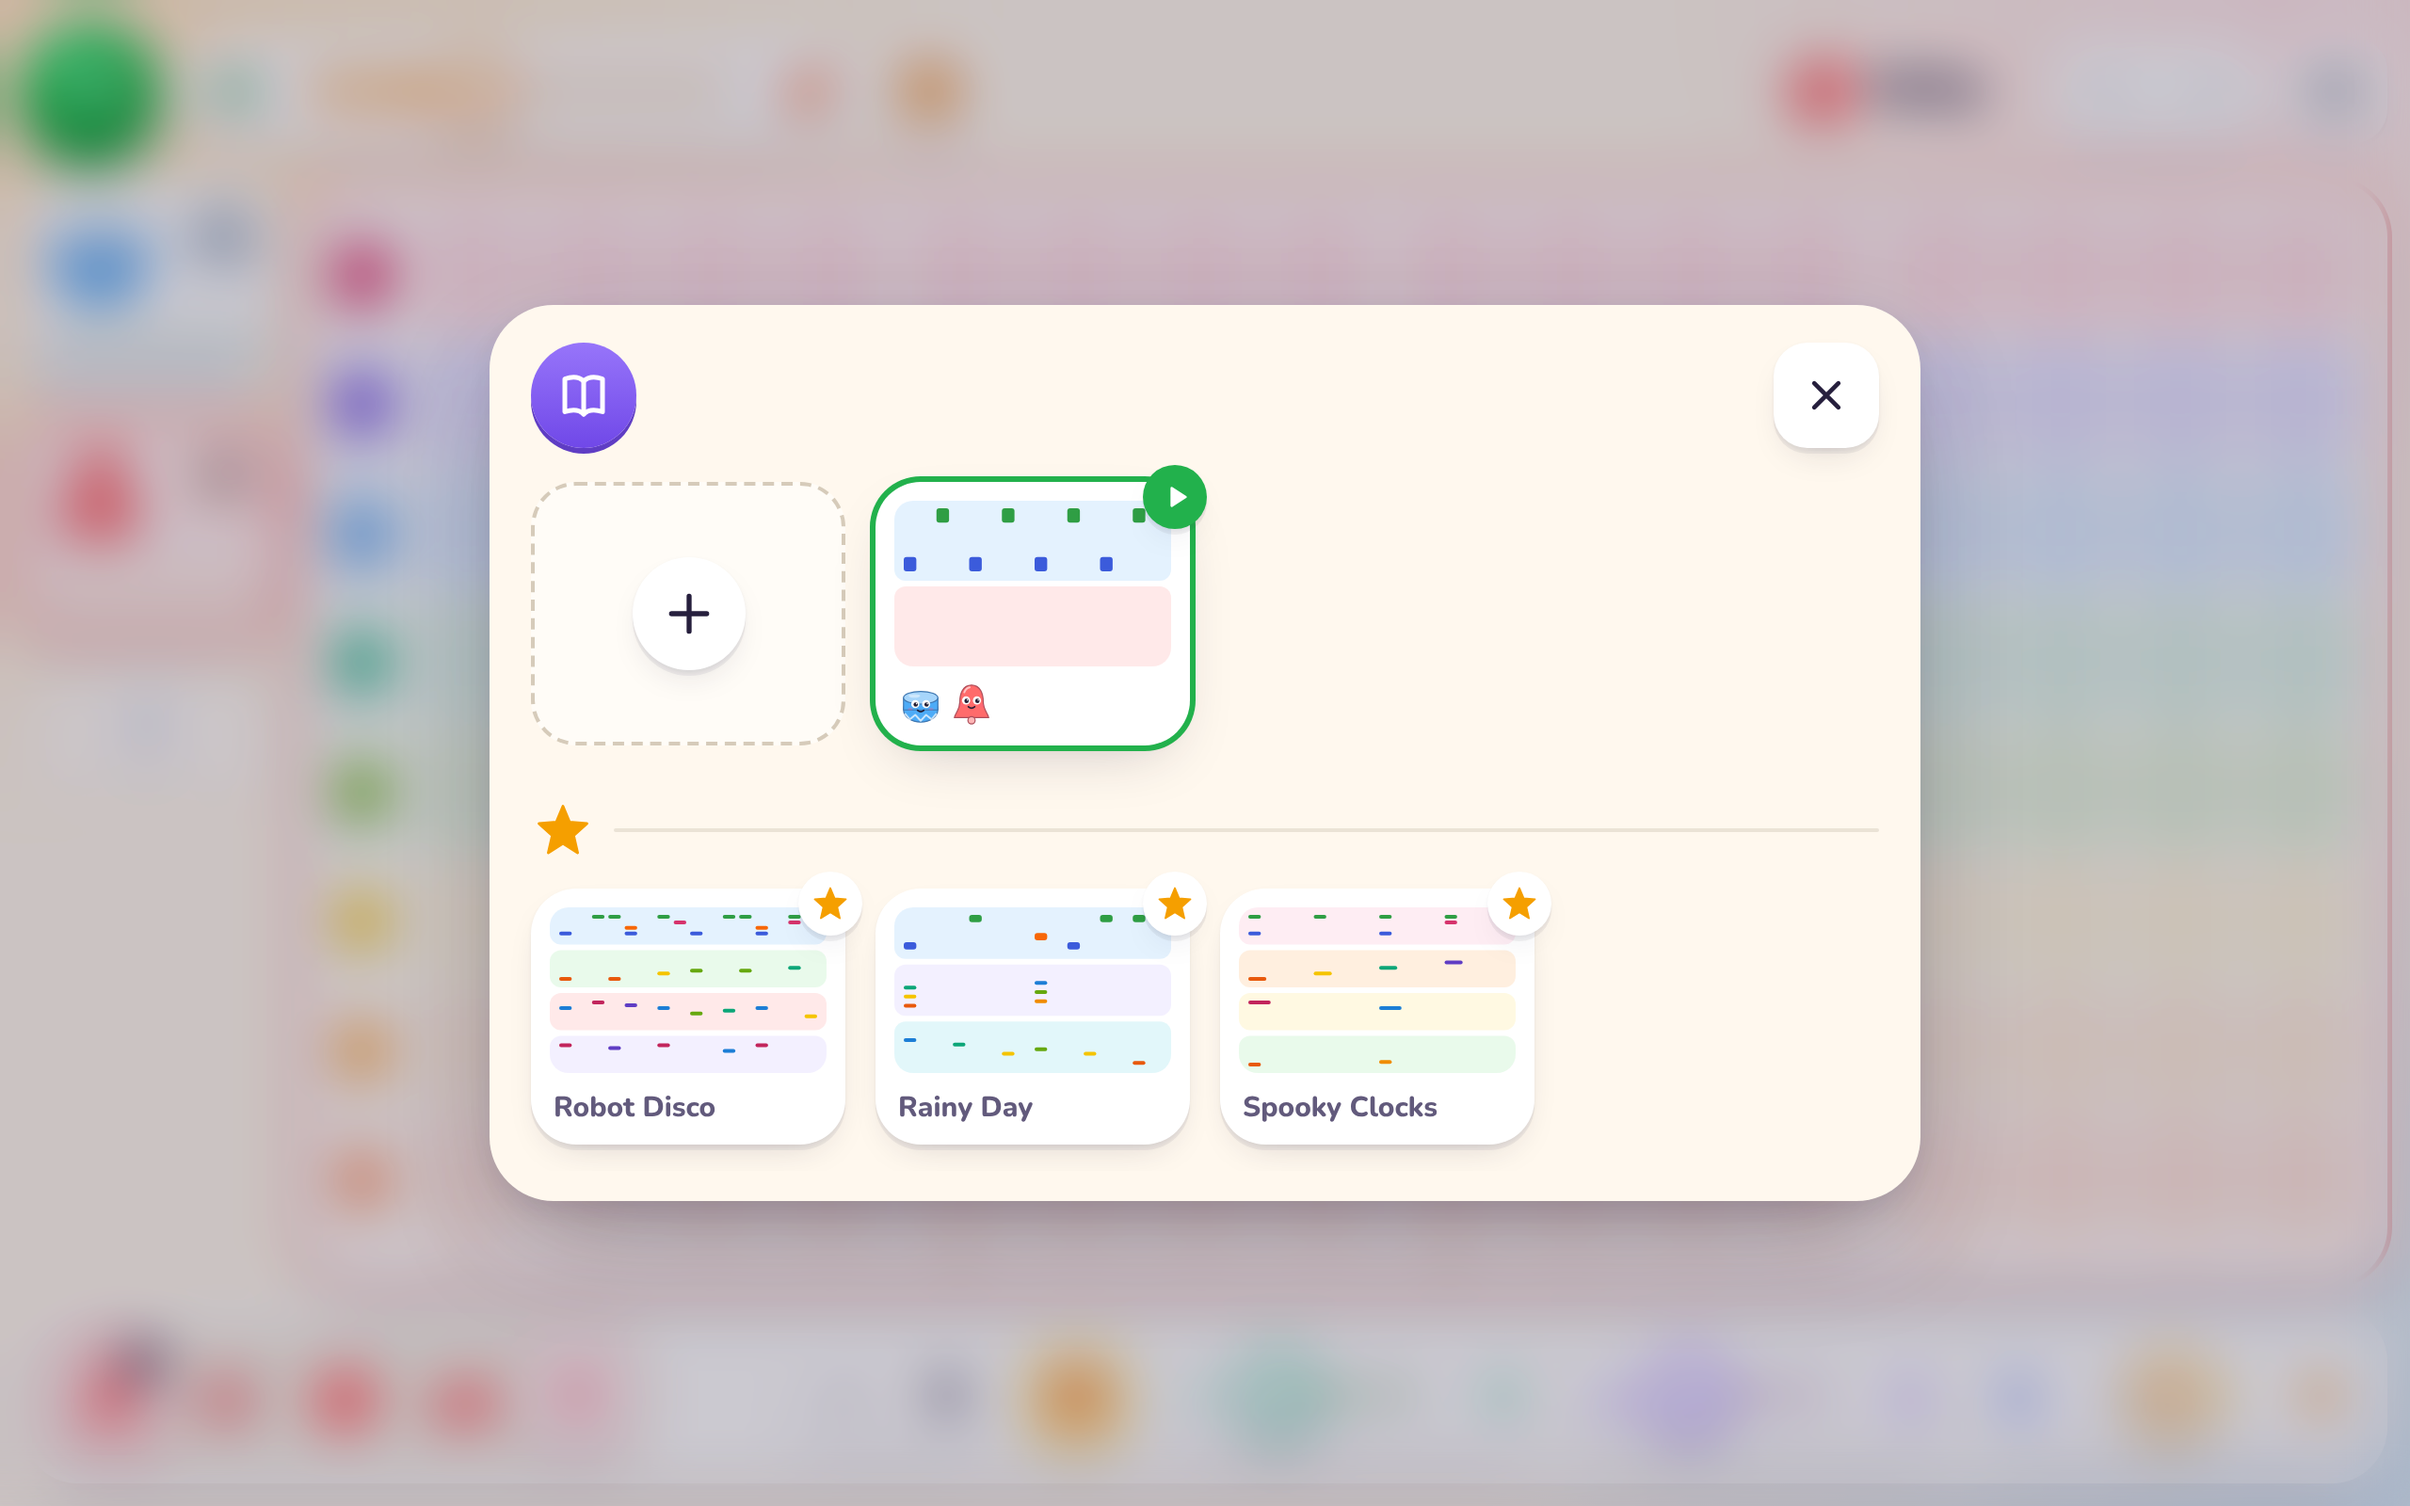
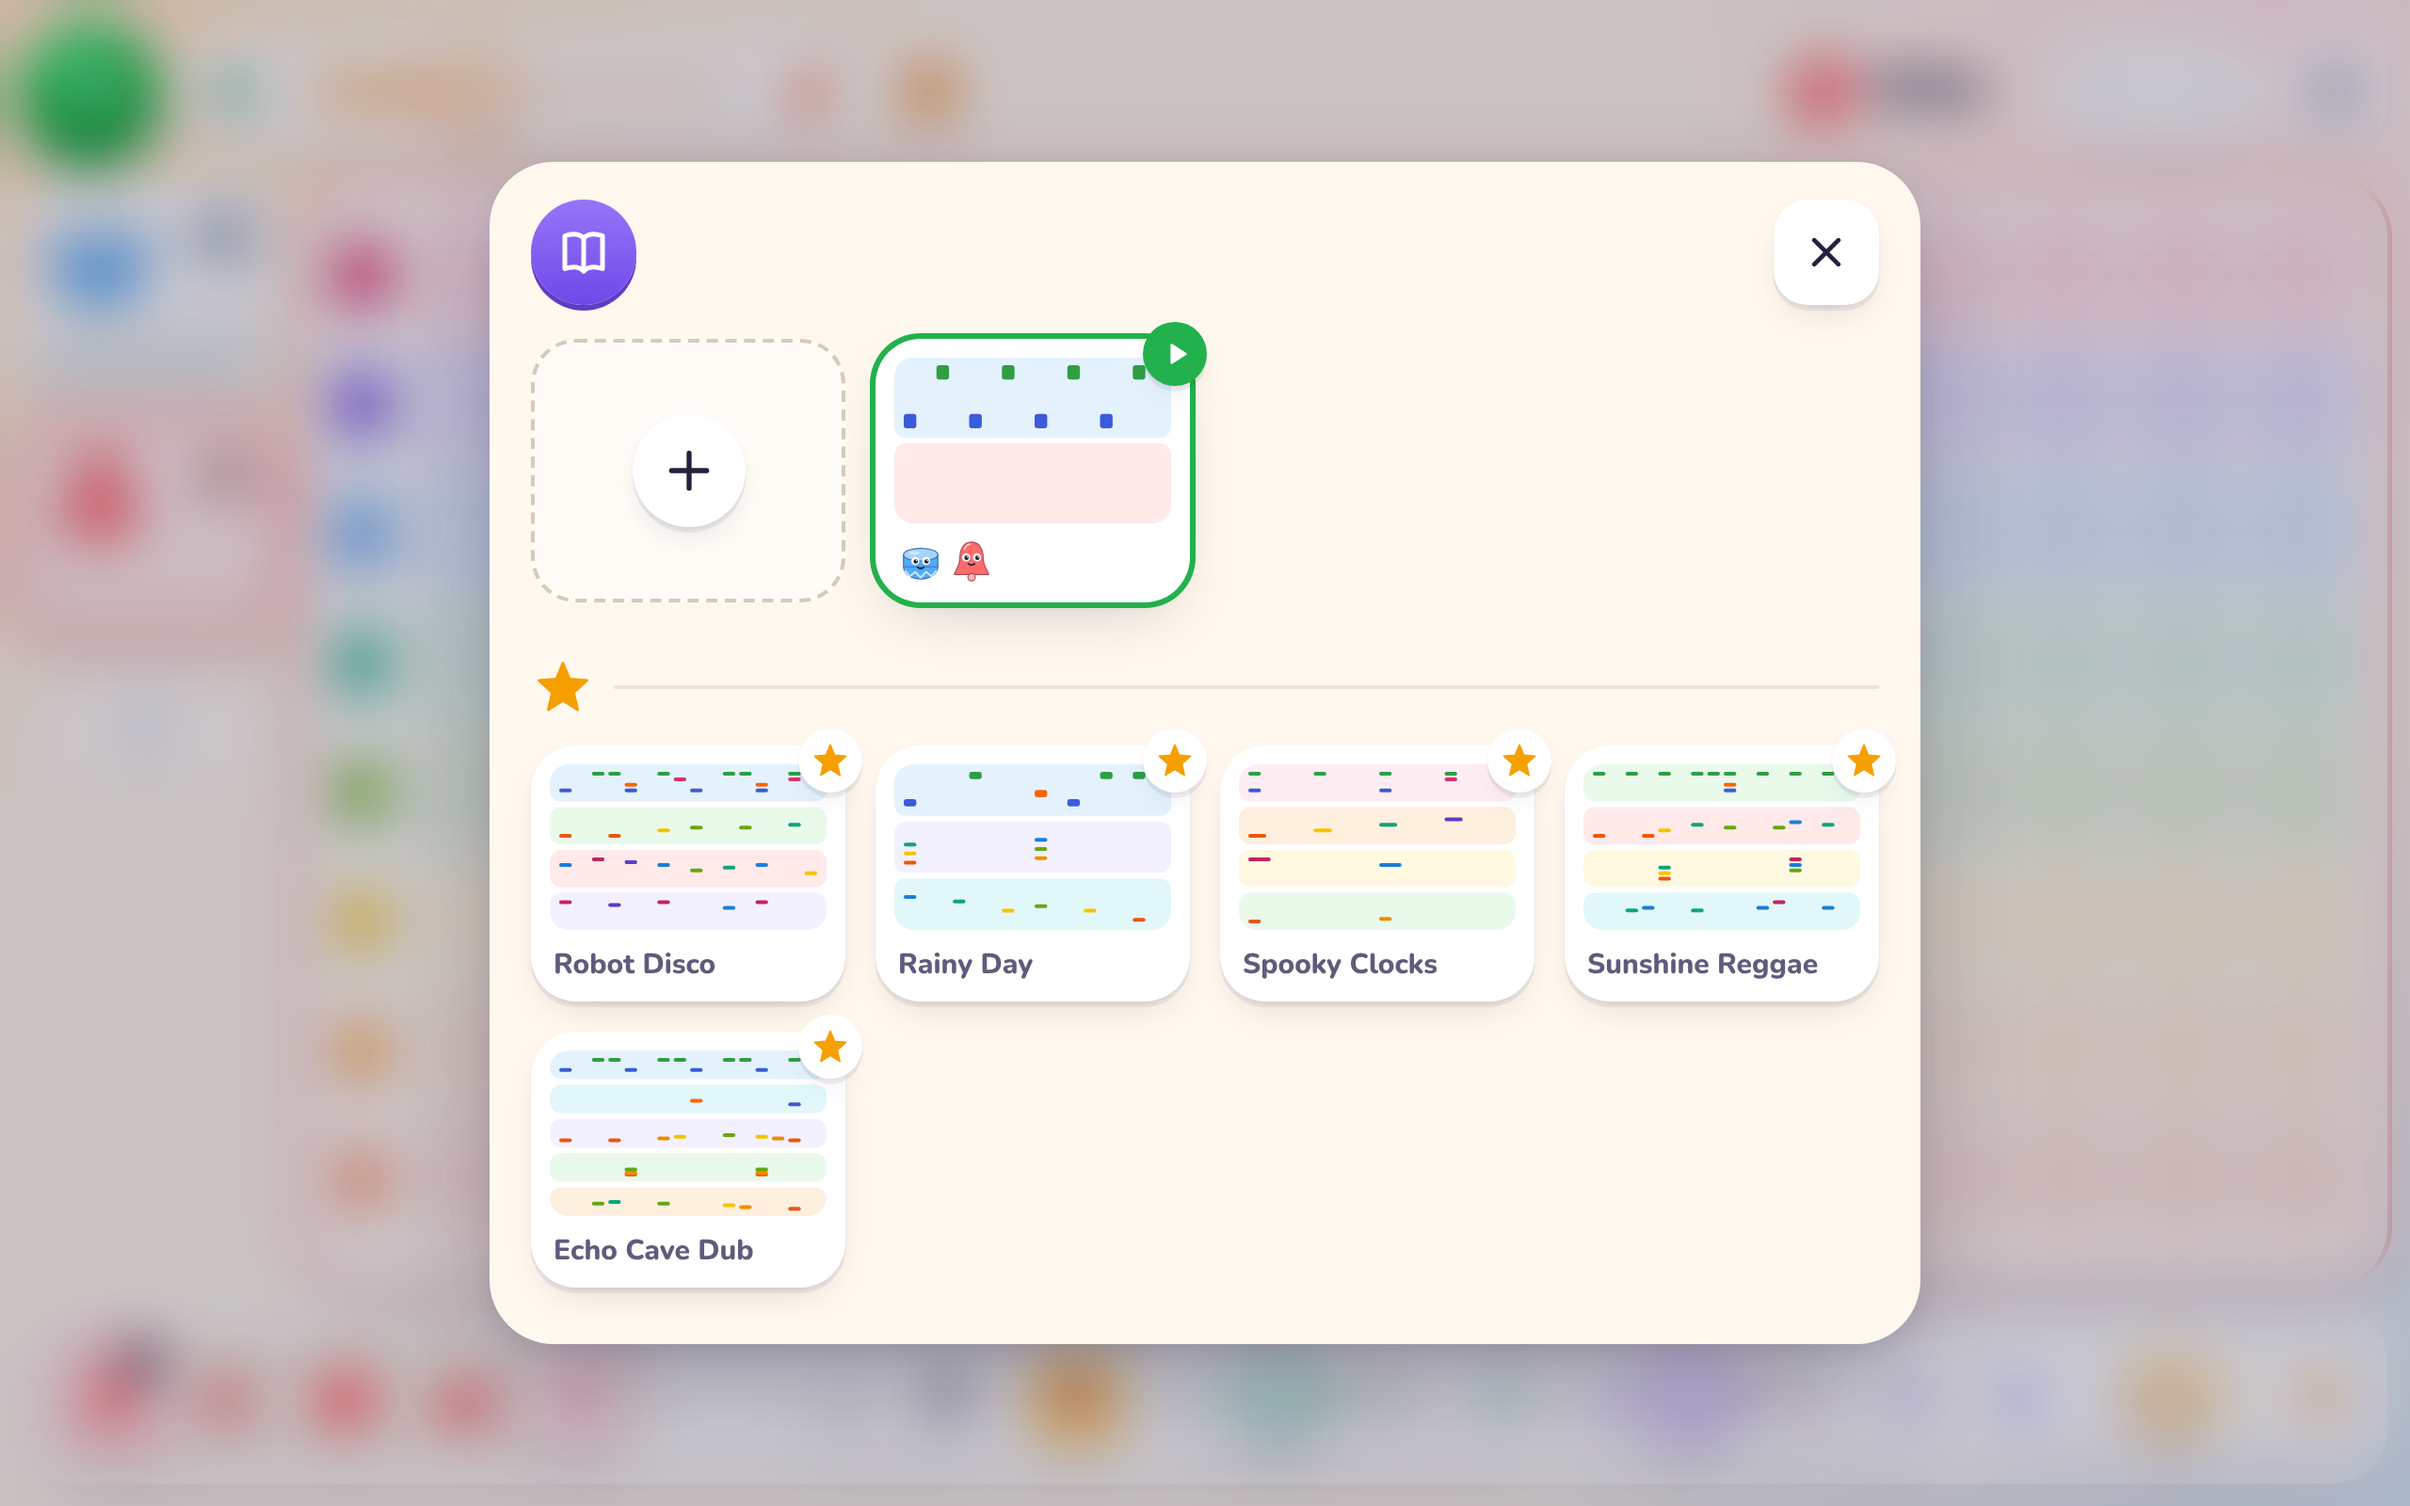
Add Sunshine Reggae and Echo Cave Dub to the songbook (#12)

diff --git a/src/model/examples.js b/src/model/examples.js
@@ -53,4 +53,50 @@ export const EXAMPLES = [
         notes: [n(0, 0, 4), n(8, 1, 4)] },
     ],
   },
+  {
+    id: 'example-sunshine-reggae',
+    name: 'Sunshine Reggae',
+    tempo: 76,
+    swing: 0.35,
+    mood: 'sunny',
+    key: 7, // G major
+    // A "one drop": the kick and snare land together on beat 3 (step 8) and beat 1 stays empty.
+    // The pluck chops a chord on beats 2 and 4 (the skank): G, then C.
+    layers: [
+      { sound: 'kit', color: 3, fx: fx(0, 0.2),
+        notes: [n(8, 0), n(8, 1, 1, 0.75),
+          n(0, 3, 1, 0.45), n(2, 3, 1, 0.7), n(4, 3, 1, 0.45), n(6, 3, 1, 0.7), n(7, 3, 1, 0.3),
+          n(8, 3, 1, 0.45), n(10, 3, 1, 0.7), n(12, 3, 1, 0.45), n(14, 3, 1, 0.7), n(15, 3, 1, 0.3)] },
+      { sound: 'bass', color: 0, fx: fx(0, 0, -0.25),
+        notes: [n(0, 0, 2), n(3, 0), n(4, 2, 2), n(6, 4, 2), n(8, 3, 3), n(11, 3), n(12, 5, 2), n(14, 4, 2)] },
+      { sound: 'pluck', color: 2, fx: fx(0.15, 0.25, 0.35),
+        notes: [n(4, 0, 1, 0.8), n(4, 2, 1, 0.8), n(4, 4, 1, 0.8), n(12, 3, 1, 0.8), n(12, 5, 1, 0.8), n(12, 7, 1, 0.8)] },
+      { sound: 'bells', color: 7, fx: fx(0.35, 0.35),
+        notes: [n(2, 4), n(3, 5), n(6, 4), n(10, 5), n(11, 7), n(14, 5, 2)] },
+    ],
+  },
+  {
+    id: 'example-echo-cave-dub',
+    name: 'Echo Cave Dub',
+    tempo: 74,
+    mood: 'sad',
+    key: 9, // A minor
+    // Dub in the style of Black Uhuru's rhythm section: a "steppers" kick on every beat, a deep bass with
+    // gaps in it, and the rim, the skank and the melody thrown into the echo. The melody sleeps: wake it.
+    layers: [
+      { sound: 'kit', color: 1, fx: fx(0, 0.2, -0.1),
+        notes: [n(0, 0), n(4, 0, 1, 0.85), n(8, 0), n(12, 0, 1, 0.85),
+          n(2, 3, 1, 0.75), n(6, 3, 1, 0.75), n(10, 3, 1, 0.75), n(14, 3, 1, 0.75),
+          n(3, 3, 1, 0.3), n(7, 3, 1, 0.3), n(11, 3, 1, 0.3), n(15, 3, 1, 0.3)] },
+      // Tiny drums: a rimshot on beat 3, and the tiny kick's falling "pew" like a syndrum.
+      { sound: 'tinykit', color: 7, fx: fx(0.7, 0.45),
+        notes: [n(8, 1), n(14, 0, 1, 0.8)] },
+      { sound: 'bass', color: 4, volume: 0.95, fx: fx(0, 0, -0.35),
+        notes: [n(0, 0, 2), n(3, 0), n(6, 1), n(7, 2, 2), n(10, 3, 2), n(12, 2), n(13, 1), n(14, 0, 2)] },
+      { sound: 'pluck', color: 3, fx: fx(0.6, 0.4, 0.45),
+        notes: [n(4, 0, 1, 0.7), n(4, 1, 1, 0.7), n(4, 3, 1, 0.7), n(12, 0, 1, 0.7), n(12, 1, 1, 0.7), n(12, 3, 1, 0.7)] },
+      { sound: 'bells', color: 5, octave: -1, muted: true, fx: fx(0.75, 0.6, -0.2),
+        notes: [n(2, 3), n(3, 4), n(6, 3), n(10, 2), n(11, 1), n(14, 0, 2)] },
+    ],
+  },
 ];

diff --git a/README.md b/README.md
@@ -54,7 +54,7 @@ and every design decision, is in [`docs/CONCEPT.md`](docs/CONCEPT.md).
   <tr>
     <td width="50%"><img src="docs/images/screenshot-tablet.png" alt="Itchy on a tablet held upright, playing the Rainy Day example: a melody of bell notes on a colourful grid, with a drum, a cloud and a bell critter along the top."></td>
     <td width="50%">
-      <img src="docs/images/screenshot-songbook.png" alt="The songbook: your own songs at the top and three example songs, Robot Disco, Rainy Day and Spooky Clocks, below.">
+      <img src="docs/images/screenshot-songbook.png" alt="The songbook: your own songs at the top and five example songs, Robot Disco, Rainy Day, Spooky Clocks, Sunshine Reggae and Echo Cave Dub, below.">
       <br><br>
       <img src="docs/images/screenshot-phone.png" alt="Itchy on a phone on its side, showing the Spooky Clocks example with long held notes.">
     </td>
@@ -79,7 +79,7 @@ and every design decision, is in [`docs/CONCEPT.md`](docs/CONCEPT.md).
 | Face | choose a mood (scale) for every tune critter | an arpeggio in that mood |
 | Turtle ↔ rabbit | drag to change speed | a tick at the new speed |
 | ↶ ↷ | undo or redo anything | a whoosh |
-| Book | every song you've made, plus three examples | — |
+| Book | every song you've made, plus five examples | — |
 | The Itchy critter (top bar) | tap it | a little hello in the current mood (it changes colour each time) |
 
 Keyboard: Space plays and stops, arrow keys move around the grid, Enter places a note, Ctrl/⌘+Z undoes, Ctrl/⌘+Y

diff --git a/docs/CONCEPT.md b/docs/CONCEPT.md
@@ -101,6 +101,8 @@ tests/        unit tests (scheduler timing, model, history) + Playwright checks
 - **Synchronous localStorage backup on page hide** — an IndexedDB write started while closing may not finish;
   boot takes whichever copy is newer.
 - **No song deleting yet** — the safest way to make losing work impossible; a bin with undo can come later.
+- **Example songs teach styles by name** (Sunshine Reggae, Echo Cave Dub): each shows one style's signature in
+  critters a child can pull apart: reggae's one drop and skank, dub's echo on the rim and a sleeping melody to wake.
 - **Long notes are in the model and drawn as bars** — the dice and examples use them; a stretch gesture can come later.
 - **Features are plugins** (mood, dice, charms, mic, songbook) that add controls to existing regions — new depth
   arrives the same way, without new modes.
